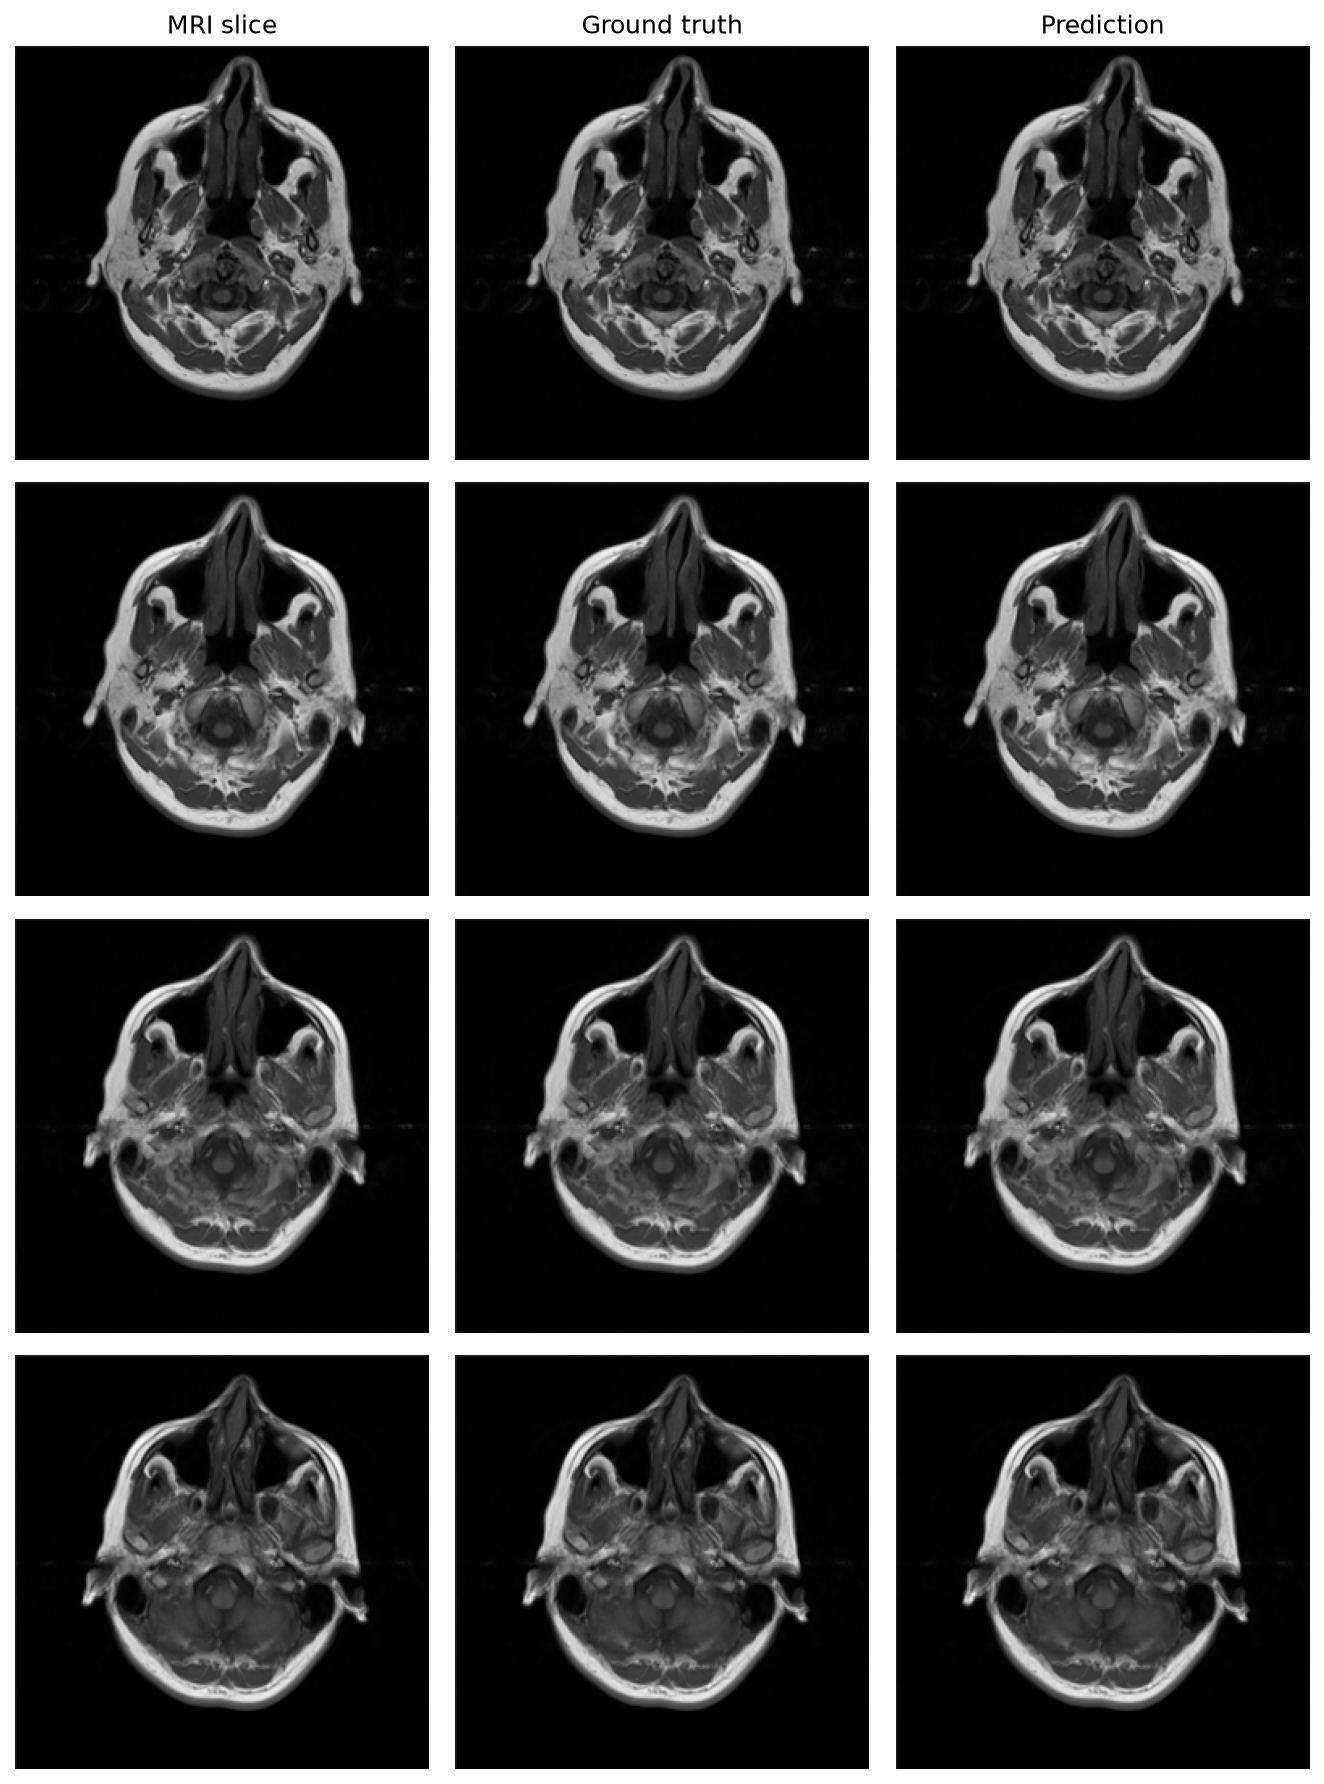
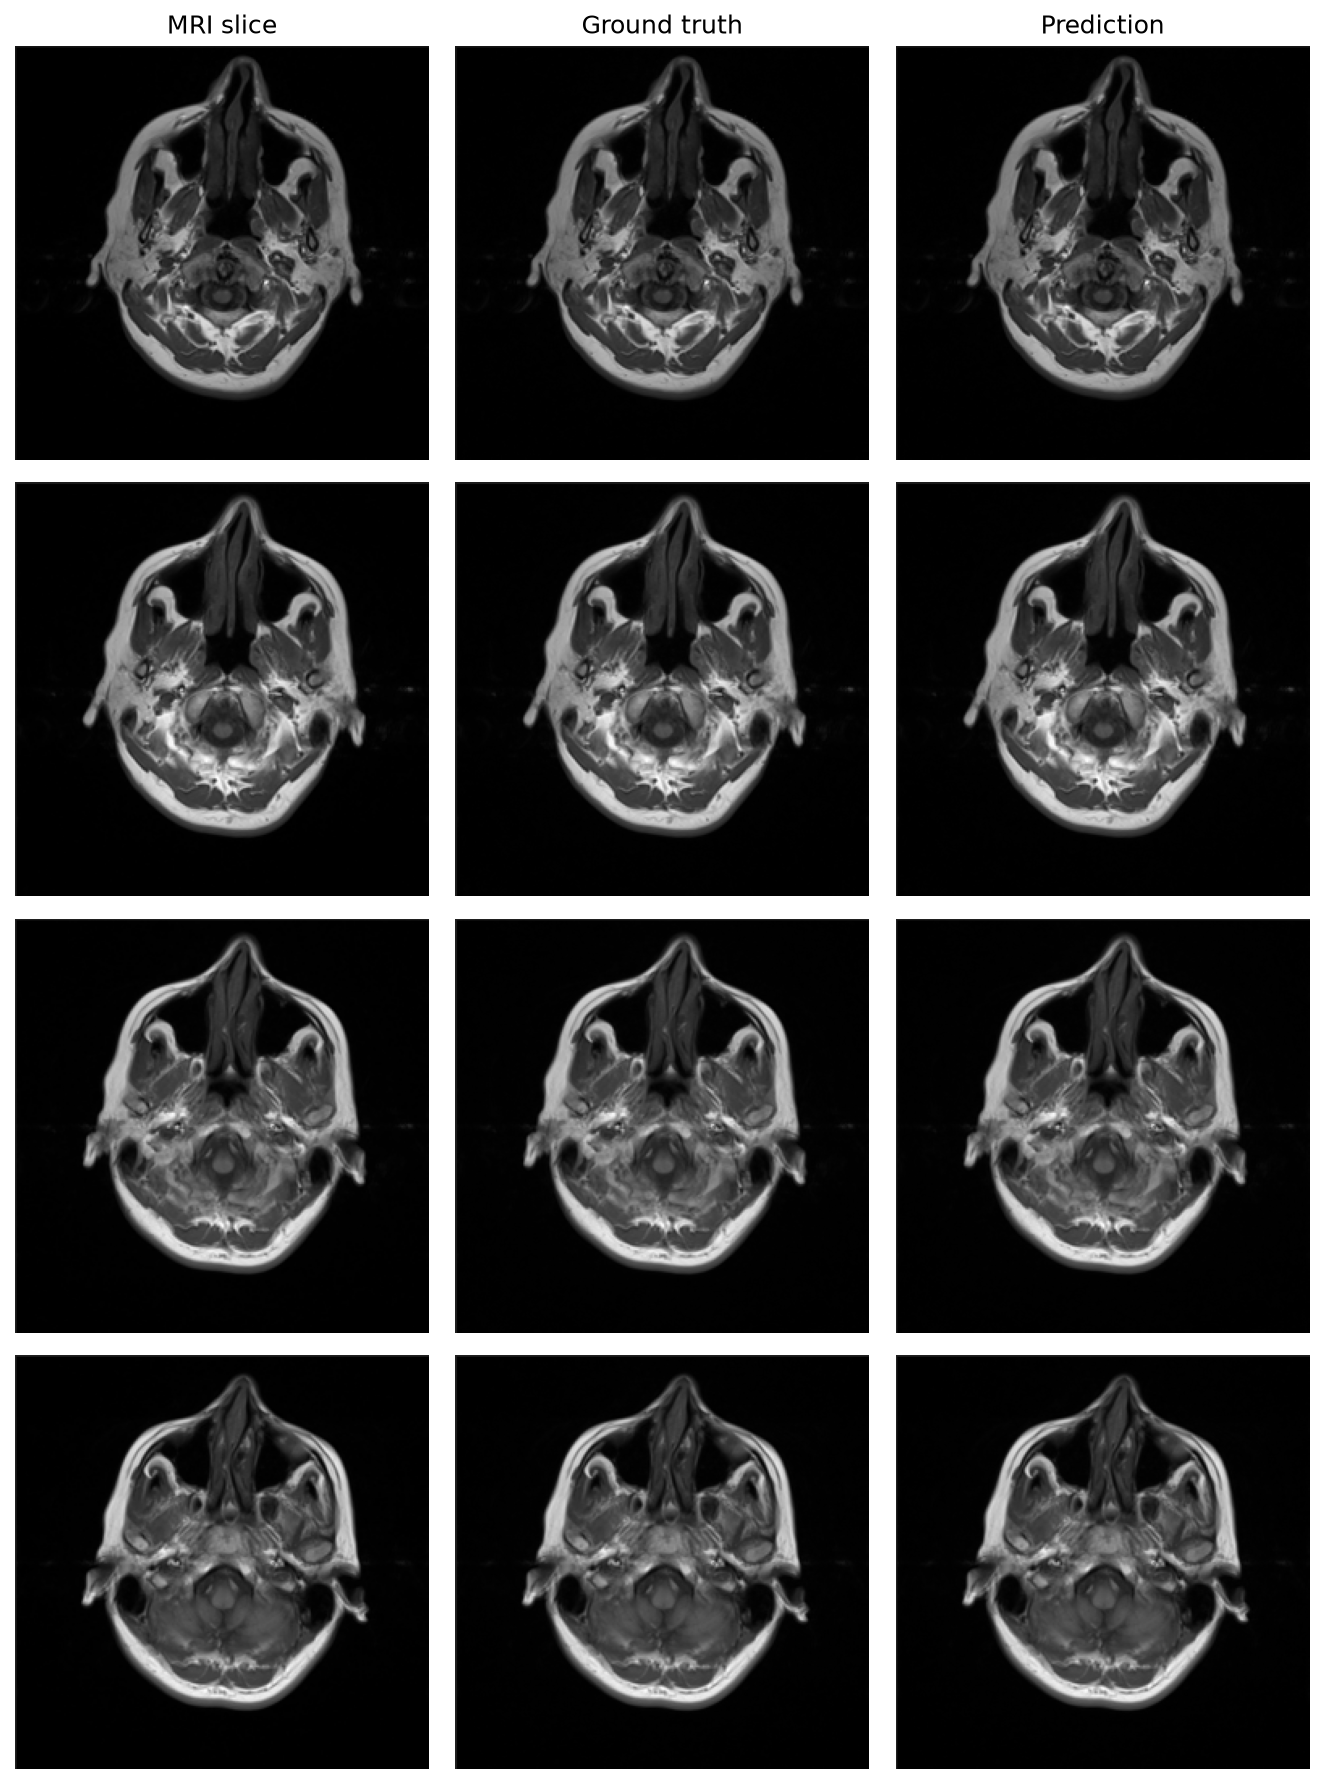
Add N4 bias field correction and slice-level class balancing to preprocessing
- N4ITK bias field correction (SimpleITK) per modality, in native resolution,
  before resampling onto the reference grid — targets multi-center intensity
  inhomogeneity.
- Slice-level balancing: cap lesion-free slices per patient at 1.5x the
  lesion-containing count (seeded random sampling), configurable via
  --neg-ratio / --skip-bias-correction CLI flags.

Full 5-fold retrain result: Dice 0.539±0.088 -> 0.553±0.051, with similar
~40-60% std reduction across IoU/sensitivity/precision — fold variance drops
substantially more than the mean improves. Updated notebook with a follow-up
analysis section and comparison table.

diff --git a/src/data/preprocessing.py b/src/data/preprocessing.py
@@ -7,12 +7,14 @@ files are matched by keyword rather than a fixed filename.
 """
 
 import argparse
+import random
 import re
 from pathlib import Path
 
 import nibabel as nib
 import numpy as np
 import pandas as pd
+import SimpleITK as sitk
 from scipy.ndimage import zoom as nd_zoom
 from skimage.transform import resize as sk_resize
 
@@ -81,10 +83,37 @@ def _find_mask_file(patient_dir: Path, reference_modality: str) -> Path | None:
     return sorted(candidates)[0]
 
 
+def _n4_bias_correct(volume: np.ndarray, shrink_factor: int = 4) -> np.ndarray:
+    """Correct MRI intensity inhomogeneity (bias field) with N4ITK.
+
+    Runs on a shrunk copy for speed (standard N4 usage), then reconstructs the
+    full-resolution corrected volume from the estimated log bias field. Uses
+    nonzero voxels as the foreground mask, since these volumes are already
+    background-zeroed. Background stays at zero.
+    """
+    image = sitk.GetImageFromArray(volume.astype(np.float32))
+    mask = sitk.GetImageFromArray((volume > 0).astype(np.uint8))
+    if not sitk.GetArrayFromImage(mask).any():
+        return volume
+
+    image_ds = sitk.Shrink(image, [shrink_factor] * image.GetDimension())
+    mask_ds = sitk.Shrink(mask, [shrink_factor] * image.GetDimension())
+
+    corrector = sitk.N4BiasFieldCorrectionImageFilter()
+    corrector.Execute(image_ds, mask_ds)
+
+    log_bias_field = corrector.GetLogBiasFieldAsImage(image)
+    corrected = image / sitk.Exp(log_bias_field)
+    corrected_array = sitk.GetArrayFromImage(corrected).astype(np.float32)
+    corrected_array[volume <= 0] = 0
+    return corrected_array
+
+
 def load_patient_volumes(
     patient_dir: Path,
     modalities: list[str] | None = None,
     reference_modality: str = REFERENCE_MODALITY,
+    bias_correct: bool = True,
 ) -> dict[str, np.ndarray]:
     """Load each requested modality volume plus a consensus lesion mask.
 
@@ -94,6 +123,9 @@ def load_patient_volumes(
     trilinear) onto the reference modality's grid -- which is also the space
     the lesion mask is provided in. This is an approximation (proportional
     resampling, not true anatomical registration).
+
+    Each modality is N4 bias-field-corrected in its own native resolution
+    (before resampling) unless `bias_correct=False`.
     """
     modalities = modalities or list(MODALITY_KEYWORDS.keys())
     reference_modality = reference_modality if reference_modality in modalities else modalities[0]
@@ -103,7 +135,10 @@ def load_patient_volumes(
         path = _find_file(patient_dir, MODALITY_KEYWORDS[modality], exclude=MASK_KEYWORDS)
         if path is None:
             raise FileNotFoundError(f"Could not find '{modality}' volume in {patient_dir}")
-        raw_volumes[modality] = np.asarray(nib.load(str(path)).dataobj, dtype=np.float32)
+        volume = np.asarray(nib.load(str(path)).dataobj, dtype=np.float32)
+        if bias_correct:
+            volume = _n4_bias_correct(volume)
+        raw_volumes[modality] = volume
 
     mask_path = _find_mask_file(patient_dir, reference_modality)
     if mask_path is None:
@@ -141,13 +176,26 @@ def extract_patient_slices(
     modalities: list[str],
     image_size: int,
     min_brain_pixels: int = 100,
+    neg_ratio: float | None = 1.5,
+    rng: random.Random | None = None,
 ) -> list[dict]:
+    """Extract 2D axial slices for one patient.
+
+    `neg_ratio` caps how many lesion-free brain slices are kept per patient,
+    as a multiple of that patient's lesion-containing slice count (e.g. 1.5
+    keeps at most 1.5x as many empty slices as lesion slices, randomly
+    sampled). Only ~54% of brain slices in this dataset contain any lesion
+    pixel, and lesion pixels are a tiny fraction even within those -- capping
+    the empty-slice majority reduces that imbalance at the dataset level.
+    Set neg_ratio=None to keep every brain slice (previous behaviour).
+    """
     out_dir.mkdir(parents=True, exist_ok=True)
+    rng = rng or random.Random()
     n_slices = volumes[modalities[0]].shape[2]
-    records = []
 
     normalized = {m: normalize_volume(volumes[m]) for m in modalities}
 
+    candidates = []
     for z in range(n_slices):
         stack = np.stack([normalized[m][:, :, z] for m in modalities], axis=0)  # (C, H, W)
         mask_slice = volumes["mask"][:, :, z]
@@ -155,6 +203,17 @@ def extract_patient_slices(
         if np.count_nonzero(stack[0]) < min_brain_pixels:
             continue  # skip empty (no-brain) slices
 
+        candidates.append((z, stack, mask_slice, bool(mask_slice.sum() > 0)))
+
+    positive = [c for c in candidates if c[3]]
+    negative = [c for c in candidates if not c[3]]
+    if neg_ratio is not None and negative:
+        n_keep = min(len(negative), round(len(positive) * neg_ratio))
+        negative = rng.sample(negative, n_keep)
+    selected = sorted(positive + negative, key=lambda c: c[0])
+
+    records = []
+    for z, stack, mask_slice, _ in selected:
         stack_resized = np.stack(
             [sk_resize(c, (image_size, image_size), preserve_range=True, anti_aliasing=True) for c in stack],
             axis=0,
@@ -186,6 +245,9 @@ def run(
     modalities: list[str] | None = None,
     image_size: int = 256,
     patient_limit: int | None = None,
+    bias_correct: bool = True,
+    neg_ratio: float | None = 1.5,
+    seed: int = 42,
 ) -> pd.DataFrame:
     modalities = modalities or ["t1", "t2", "flair"]
     patient_dirs = discover_patients(raw_dir)
@@ -196,12 +258,15 @@ def run(
     if patient_limit:
         patient_dirs = patient_dirs[:patient_limit]
 
+    rng = random.Random(seed)
     all_records = []
     for patient_dir in patient_dirs:
         patient_id = patient_id_from_dir(patient_dir)
         print(f"Processing patient {patient_id} ({patient_dir}) ...")
-        volumes = load_patient_volumes(patient_dir, modalities)
-        records = extract_patient_slices(patient_id, volumes, out_dir, modalities, image_size)
+        volumes = load_patient_volumes(patient_dir, modalities, bias_correct=bias_correct)
+        records = extract_patient_slices(
+            patient_id, volumes, out_dir, modalities, image_size, neg_ratio=neg_ratio, rng=rng
+        )
         all_records.extend(records)
         print(f"  -> {len(records)} slices ({sum(r['has_lesion'] for r in records)} with lesion)")
 
@@ -219,5 +284,28 @@ if __name__ == "__main__":
     parser.add_argument("--modalities", nargs="+", default=["t1", "t2", "flair"])
     parser.add_argument("--image-size", type=int, default=256)
     parser.add_argument("--patient-limit", type=int, default=None, help="For smoke tests.")
+    parser.add_argument(
+        "--skip-bias-correction",
+        action="store_true",
+        help="Skip N4 bias field correction (faster, e.g. for smoke tests).",
+    )
+    parser.add_argument(
+        "--neg-ratio",
+        type=float,
+        default=1.5,
+        help="Max lesion-free slices to keep per patient, as a multiple of that "
+        "patient's lesion-containing slice count. Use a negative value (e.g. -1) "
+        "to keep every brain slice (no balancing).",
+    )
+    parser.add_argument("--seed", type=int, default=42, help="Seed for empty-slice subsampling.")
     args = parser.parse_args()
-    run(args.raw_dir, args.out_dir, args.modalities, args.image_size, args.patient_limit)
+    run(
+        args.raw_dir,
+        args.out_dir,
+        args.modalities,
+        args.image_size,
+        args.patient_limit,
+        bias_correct=not args.skip_bias_correction,
+        neg_ratio=None if args.neg_ratio < 0 else args.neg_ratio,
+        seed=args.seed,
+    )